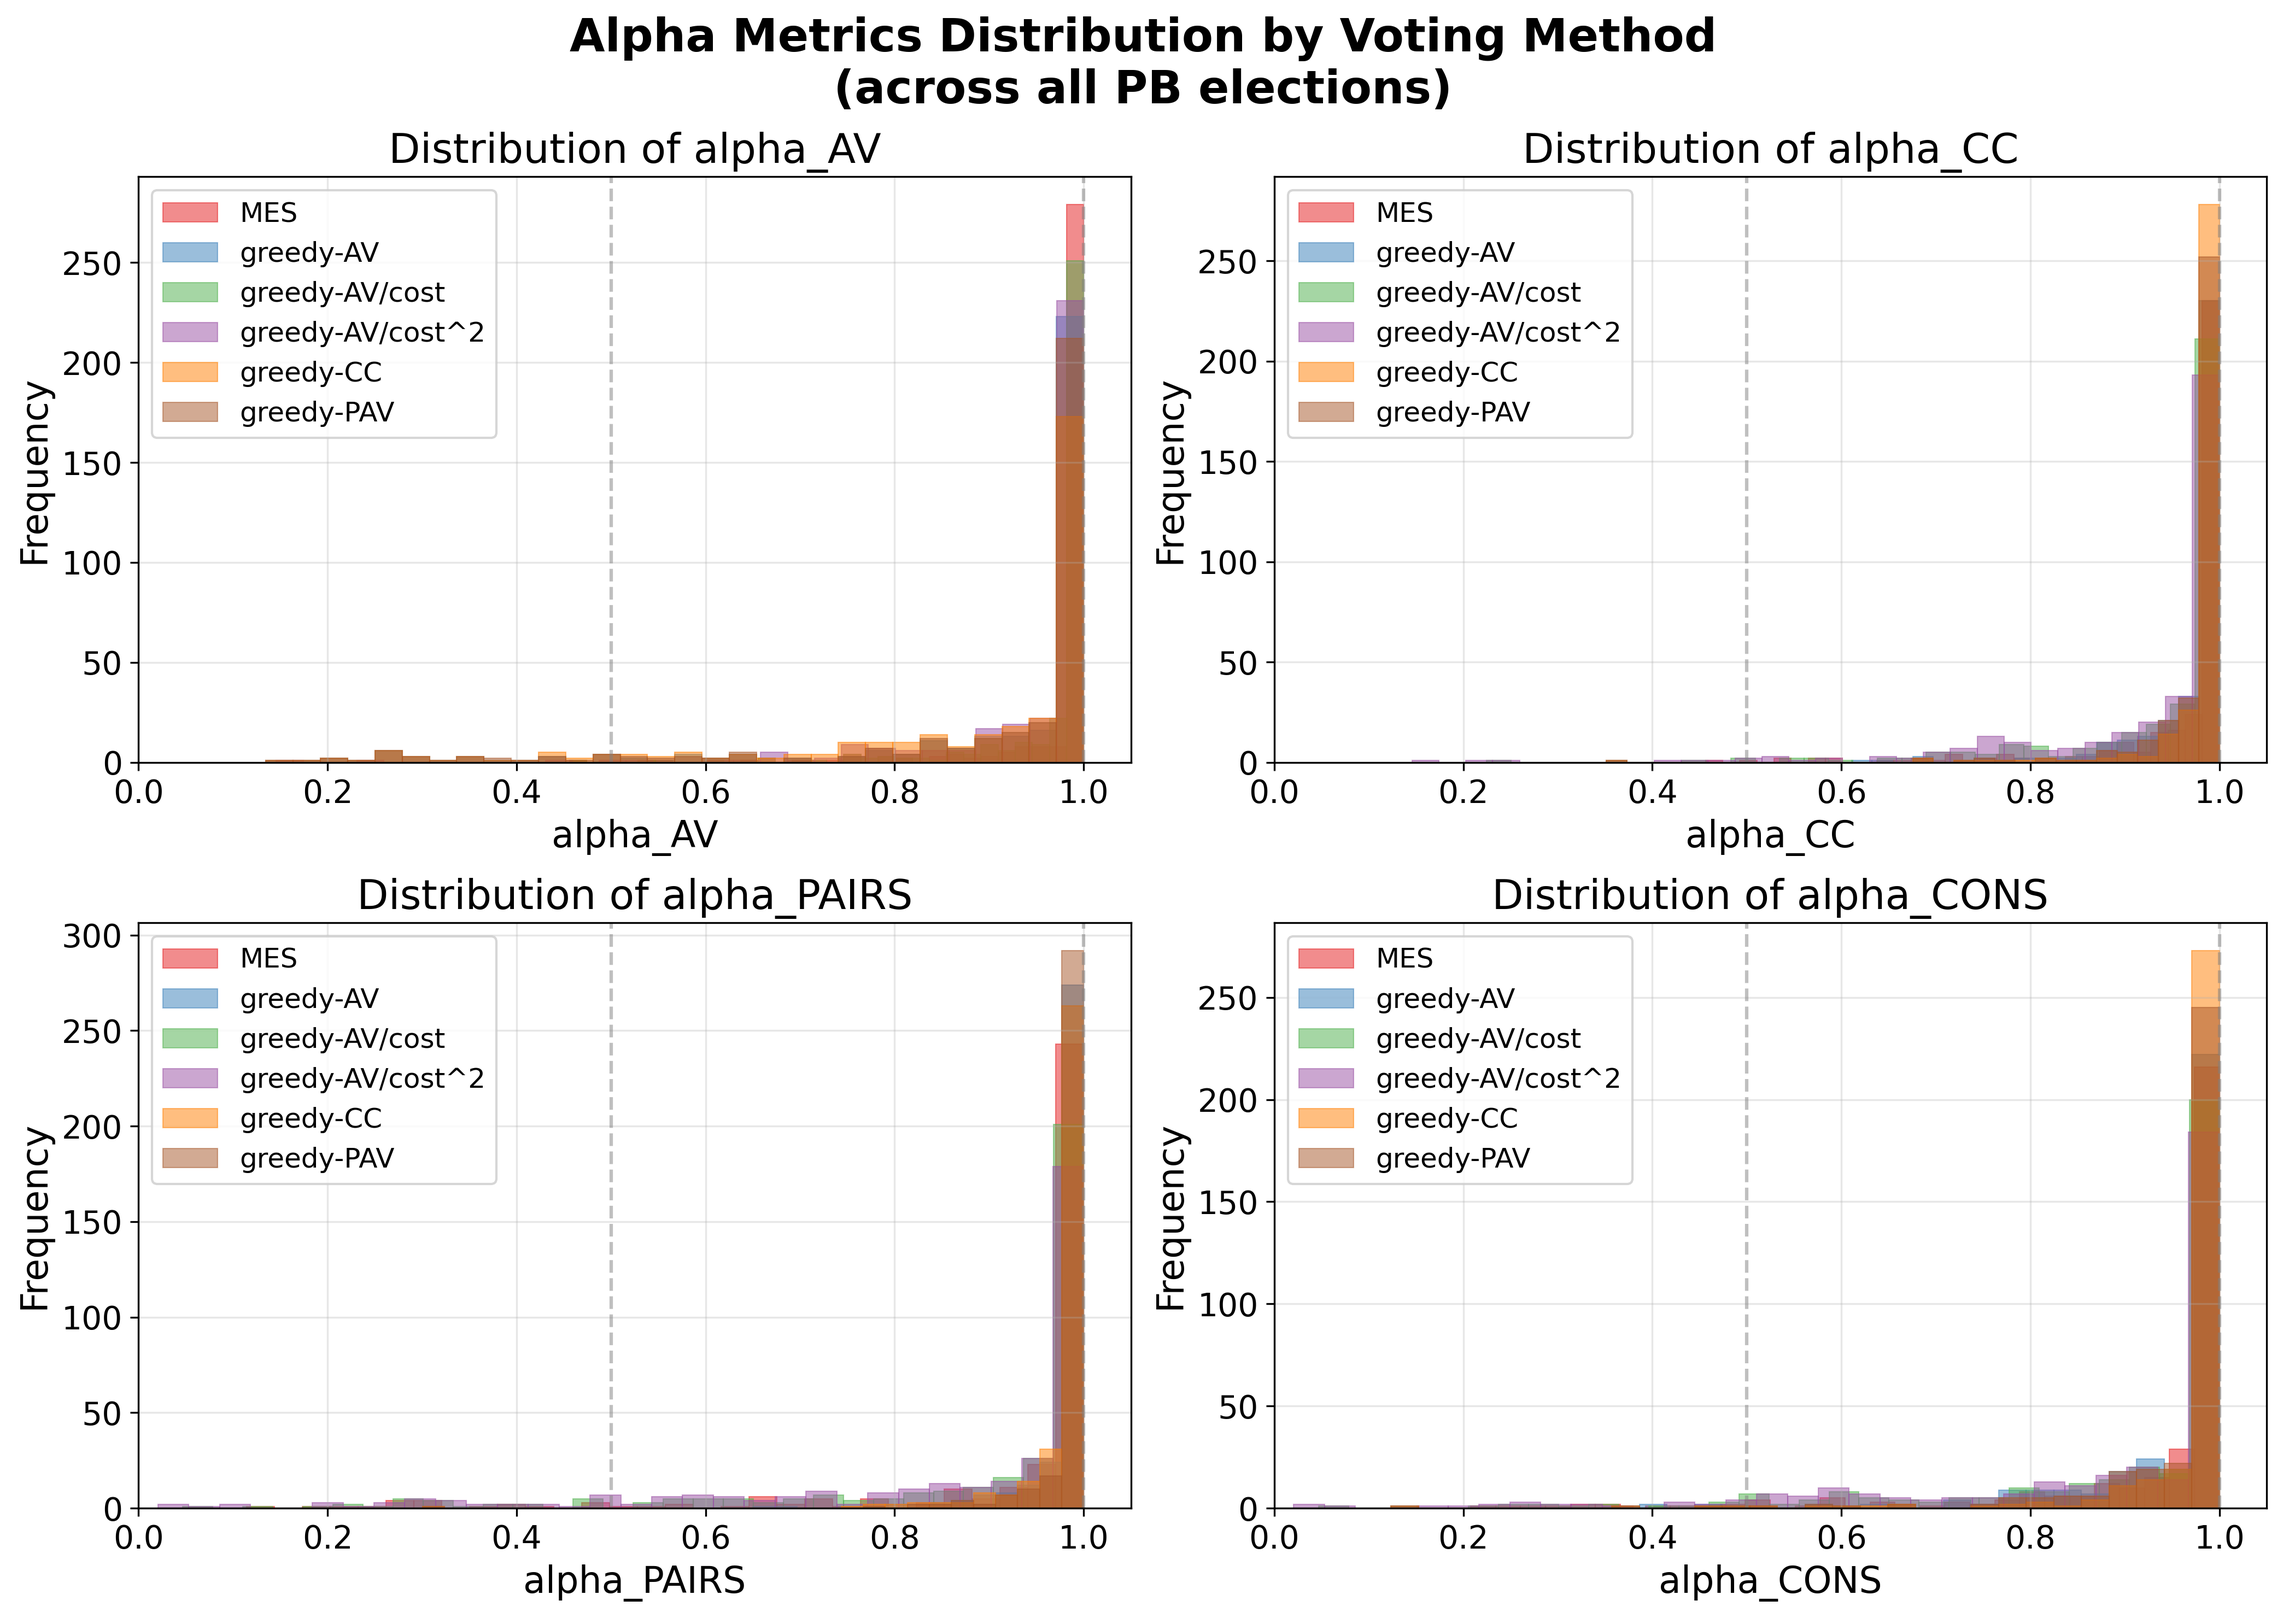
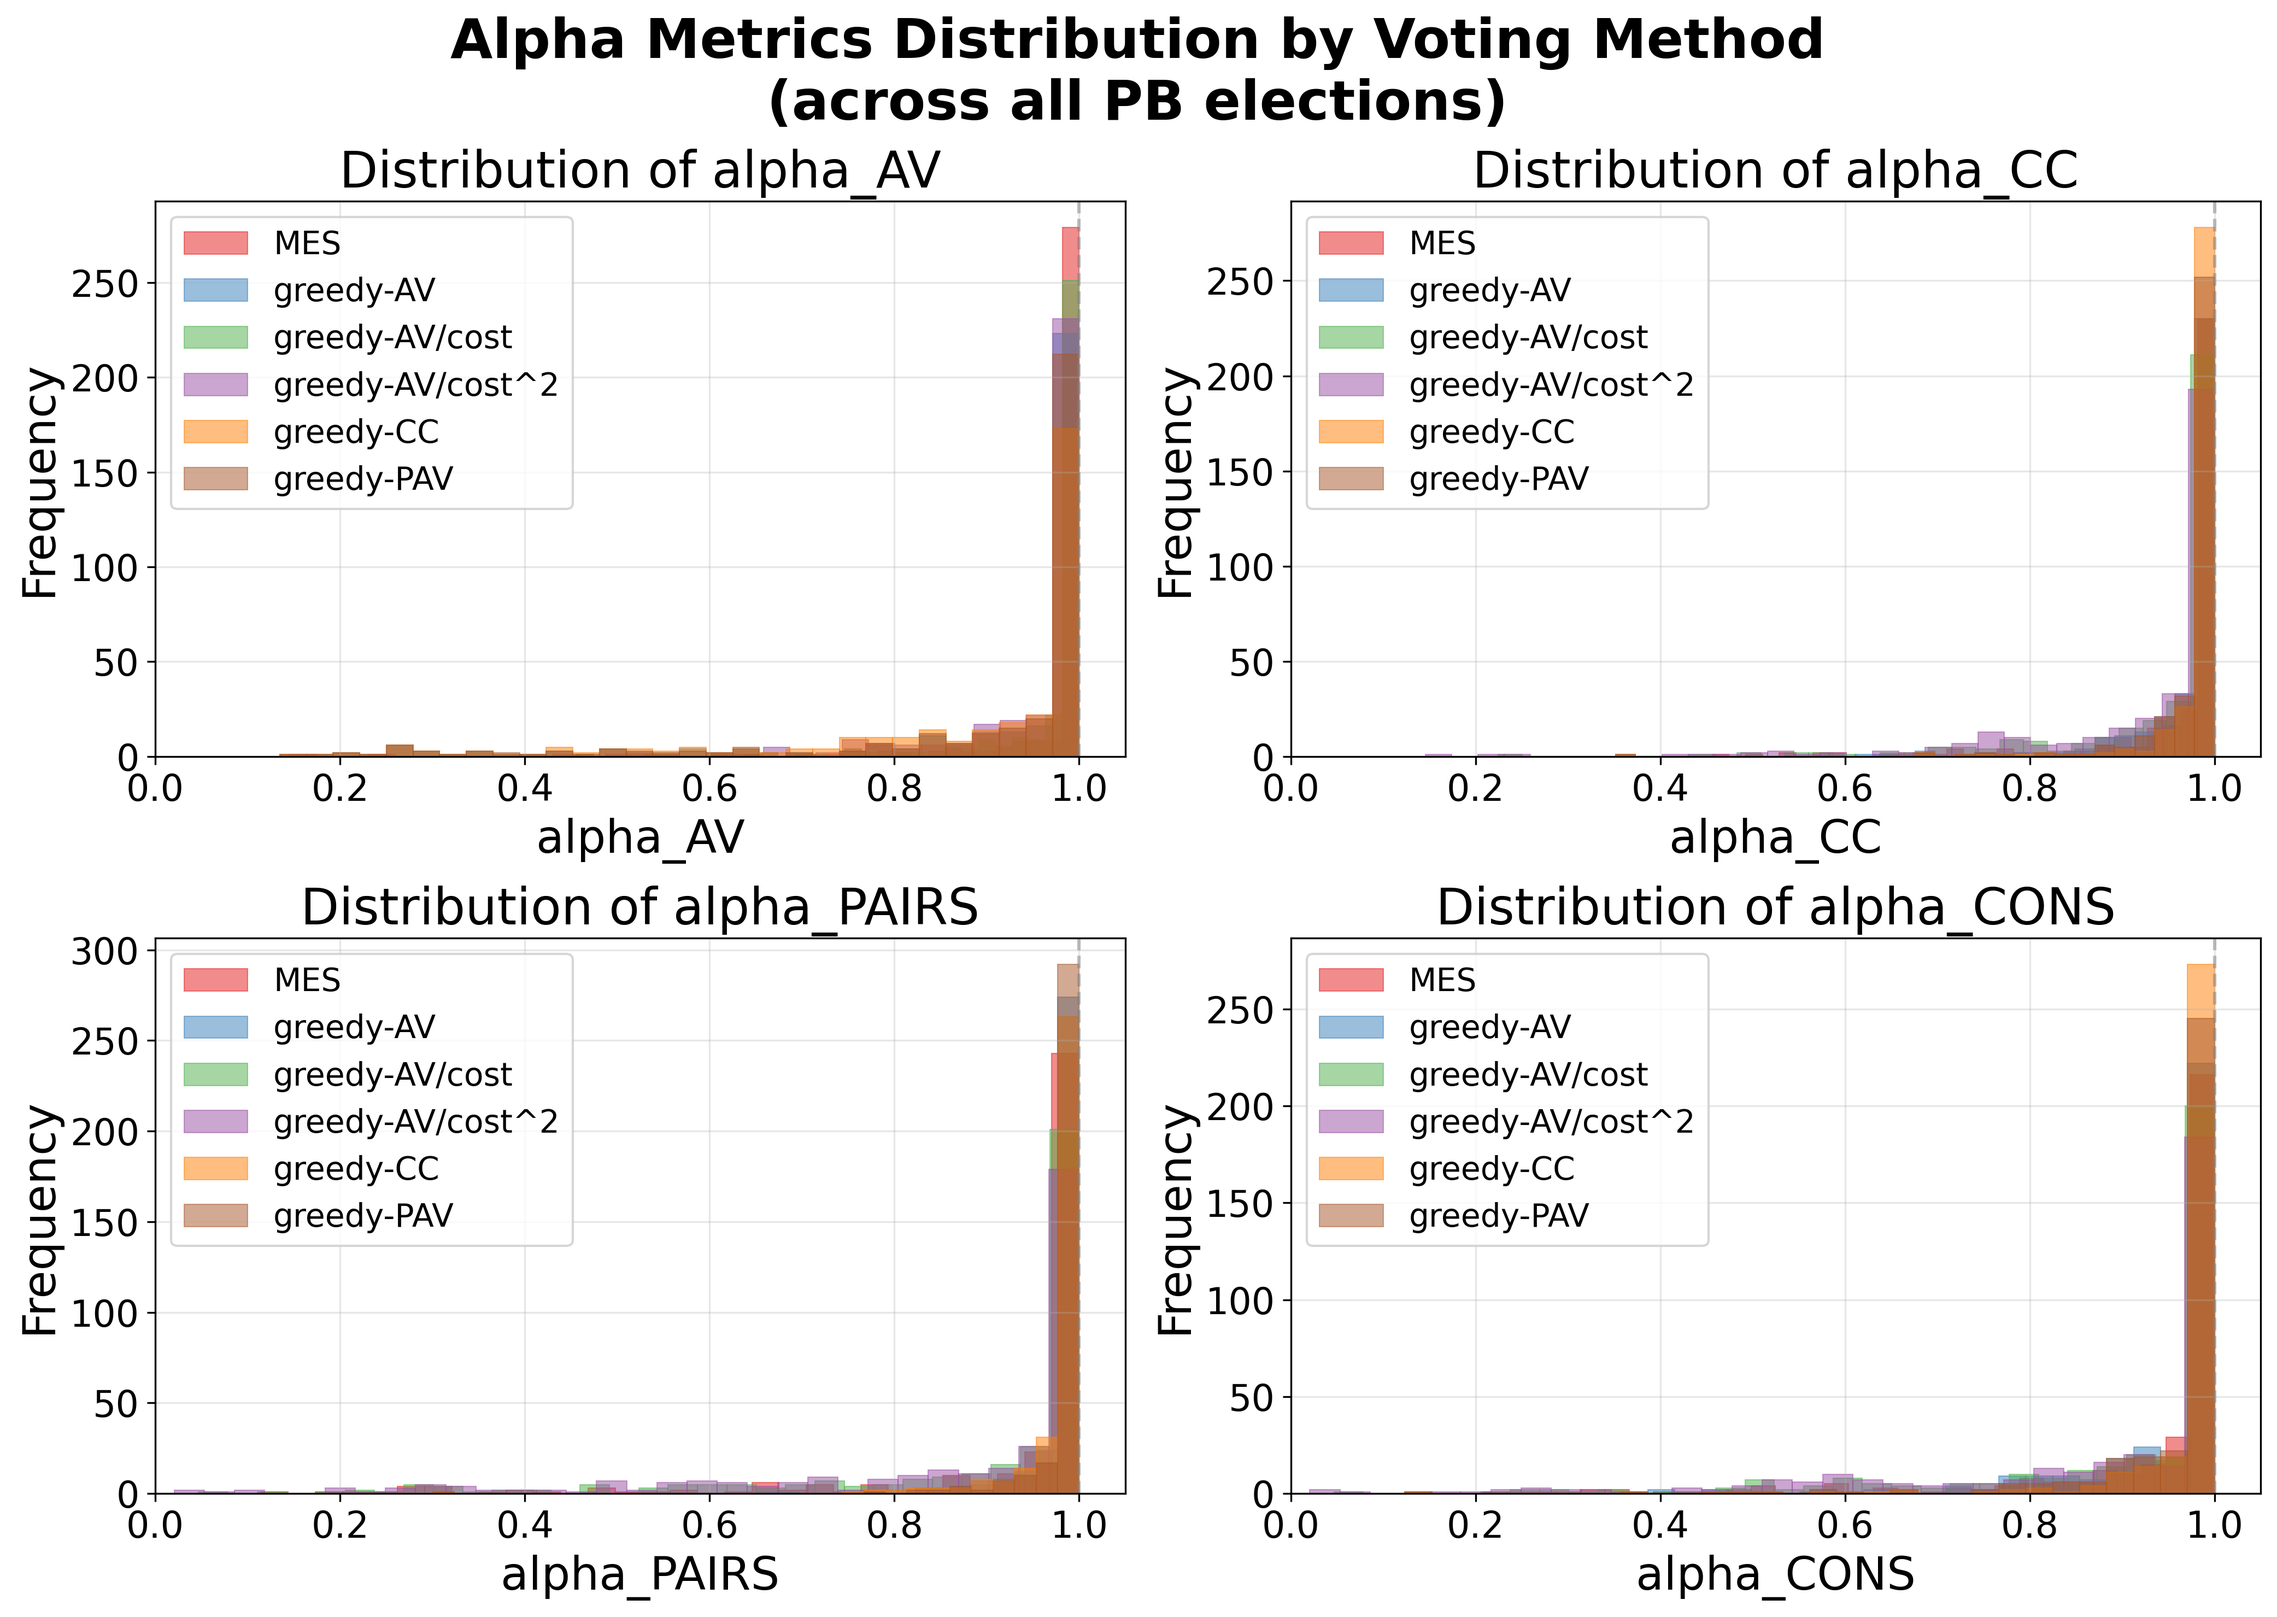
bigger fonts

diff --git a/scripts/plot_main_tradeoff_bar.py b/scripts/plot_main_tradeoff_bar.py
@@ -113,7 +113,7 @@ def main():
         print(f"  {method}: {method_props[method]}")
     
     # ===== Create Grouped Bar Chart =====
-    fig, ax = plt.subplots(figsize=(14, 7))
+    fig, ax = plt.subplots(figsize=(14, 8))
     
     pair_names = ["PAIRS-AV", "PAIRS-CC", "PAIRS-EJR", "CONS-AV", "CONS-CC", "CONS-EJR"]
     n_pairs = len(pair_names)
@@ -149,16 +149,18 @@ def main():
     
     # Formatting
     ax.set_xticks(x)
-    ax.set_xticklabels(pair_names, fontsize=14)
-    ax.set_ylabel("Proportion of Elections with (1,1)", fontsize=16)
-    ax.set_xlabel("Trade-off Pair", fontsize=16)
-    ax.set_title("(1,1) Achievement: Best Possible vs Voting Methods", fontsize=18, fontweight="bold")
+    ax.set_xticklabels(pair_names, fontsize=18)
+    ax.set_ylabel("Proportion of Elections with (1,1)", fontsize=20)
+    ax.set_xlabel("Trade-off Pair", fontsize=20)
+    ax.set_title("(1,1) Achievement: Best Possible vs Voting Methods", fontsize=22, fontweight="bold")
     ax.set_ylim(0, 1.1)
     ax.axhline(y=1.0, color="gray", linestyle="--", alpha=0.5)
     ax.axhline(y=0.5, color="gray", linestyle="--", alpha=0.5)
-    ax.legend(loc="upper right", fontsize=12)
     ax.grid(True, alpha=0.3, axis="y")
-    ax.tick_params(axis='both', labelsize=14)
+    ax.tick_params(axis='both', labelsize=16)
+    
+    # Legend below the plot
+    ax.legend(loc="upper center", bbox_to_anchor=(0.5, -0.12), ncol=4, fontsize=14)
     
     plt.tight_layout()
     

diff --git a/scripts/plot_metrics_bar.py b/scripts/plot_metrics_bar.py
@@ -59,7 +59,7 @@ def main():
         print(f"  {method}: {method_props[method]}")
     
     # ===== Create Grouped Bar Chart =====
-    fig, ax = plt.subplots(figsize=(14, 7))
+    fig, ax = plt.subplots(figsize=(14, 8))
     
     n_metrics = len(metrics)
     n_bars = len(methods)  # Just voting methods
@@ -87,16 +87,18 @@ def main():
     
     # Formatting
     ax.set_xticks(x)
-    ax.set_xticklabels(metric_labels, fontsize=14)
-    ax.set_ylabel("Proportion of Elections Achieving 1.0", fontsize=16)
-    ax.set_xlabel("Metric", fontsize=16)
-    ax.set_title("Metric Achievement by Voting Method", fontsize=18, fontweight="bold")
+    ax.set_xticklabels(metric_labels, fontsize=18)
+    ax.set_ylabel("Proportion of Elections Achieving 1.0", fontsize=20)
+    ax.set_xlabel("Metric", fontsize=20)
+    ax.set_title("Metric Achievement by Voting Method", fontsize=22, fontweight="bold")
     ax.set_ylim(0, 1.1)
     ax.axhline(y=1.0, color="gray", linestyle="--", alpha=0.5)
     ax.axhline(y=0.5, color="gray", linestyle="--", alpha=0.5)
-    ax.legend(loc="upper left", fontsize=12)
     ax.grid(True, alpha=0.3, axis="y")
-    ax.tick_params(axis='both', labelsize=14)
+    ax.tick_params(axis='both', labelsize=16)
+    
+    # Legend below the plot
+    ax.legend(loc="upper center", bbox_to_anchor=(0.5, -0.12), ncol=3, fontsize=14)
     
     plt.tight_layout()
     

diff --git a/scripts/plot_alpha_histograms.py b/scripts/plot_alpha_histograms.py
@@ -74,17 +74,16 @@ def main():
                     linewidth=0.5,
                 )
         
-        ax.set_xlabel(metric, fontsize=16)
-        ax.set_ylabel("Frequency", fontsize=16)
-        ax.set_title(f"Distribution of {metric}", fontsize=18)
+        ax.set_xlabel(metric, fontsize=20)
+        ax.set_ylabel("Frequency", fontsize=20)
+        ax.set_title(f"Distribution of {metric}", fontsize=22)
         ax.set_xlim(0, 1.05)
-        ax.axvline(x=0.5, color="gray", linestyle="--", alpha=0.5)
         ax.axvline(x=1.0, color="gray", linestyle="--", alpha=0.5)
         ax.grid(True, alpha=0.3)
-        ax.legend(fontsize=12)
-        ax.tick_params(axis='both', labelsize=14)
+        ax.legend(fontsize=14)
+        ax.tick_params(axis='both', labelsize=16)
     
-    fig.suptitle("Alpha Metrics Distribution by Voting Method\n(across all PB elections)", fontsize=20, fontweight="bold")
+    fig.suptitle("Alpha Metrics Distribution by Voting Method\n(across all PB elections)", fontsize=24, fontweight="bold")
     plt.tight_layout()
     
     # Save figure

diff --git a/scripts/plot_cons_vs_cc_scatter.py b/scripts/plot_cons_vs_cc_scatter.py
@@ -72,15 +72,15 @@ def main():
             label=r"$\alpha_{CC} = 1 - \alpha_{CONS}^2$")
     
     # Formatting
-    ax.set_xlabel(r"$\alpha_{CONS}$", fontsize=16)
-    ax.set_ylabel(r"$\alpha_{CC}$", fontsize=16)
-    ax.set_title("CONS vs CC (all committees from all elections)", fontsize=18, fontweight="bold")
+    ax.set_xlabel(r"$\alpha_{CONS}$", fontsize=22)
+    ax.set_ylabel(r"$\alpha_{CC}$", fontsize=22)
+    ax.set_title("CONS vs CC (all committees from all elections)", fontsize=24, fontweight="bold")
     ax.set_xlim(0, 1.05)
     ax.set_ylim(0, 1.05)
     ax.set_aspect("equal")
     ax.grid(True, alpha=0.3)
-    ax.legend(fontsize=14, loc="lower left")
-    ax.tick_params(axis='both', labelsize=14)
+    ax.legend(fontsize=16, loc="lower left")
+    ax.tick_params(axis='both', labelsize=18)
     
     plt.tight_layout()
     

diff --git a/scripts/plot_cons_vs_cc_single_election.py b/scripts/plot_cons_vs_cc_single_election.py
@@ -53,15 +53,15 @@ def main():
             label=r"$\alpha_{CC} = 1 - \alpha_{CONS}^2$")
     
     # Formatting
-    ax.set_xlabel(r"$\alpha_{CONS}$", fontsize=16)
-    ax.set_ylabel(r"$\alpha_{CC}$", fontsize=16)
-    ax.set_title(f"CONS vs CC\n{election_name}", fontsize=18, fontweight="bold")
+    ax.set_xlabel(r"$\alpha_{CONS}$", fontsize=22)
+    ax.set_ylabel(r"$\alpha_{CC}$", fontsize=22)
+    ax.set_title(f"CONS vs CC\n{election_name}", fontsize=24, fontweight="bold")
     ax.set_xlim(0, 1.05)
     ax.set_ylim(0, 1.05)
     ax.set_aspect("equal")
     ax.grid(True, alpha=0.3)
-    ax.legend(fontsize=14, loc="lower right")
-    ax.tick_params(axis='both', labelsize=14)
+    ax.legend(fontsize=16, loc="lower right")
+    ax.tick_params(axis='both', labelsize=18)
     
     plt.tight_layout()
     
